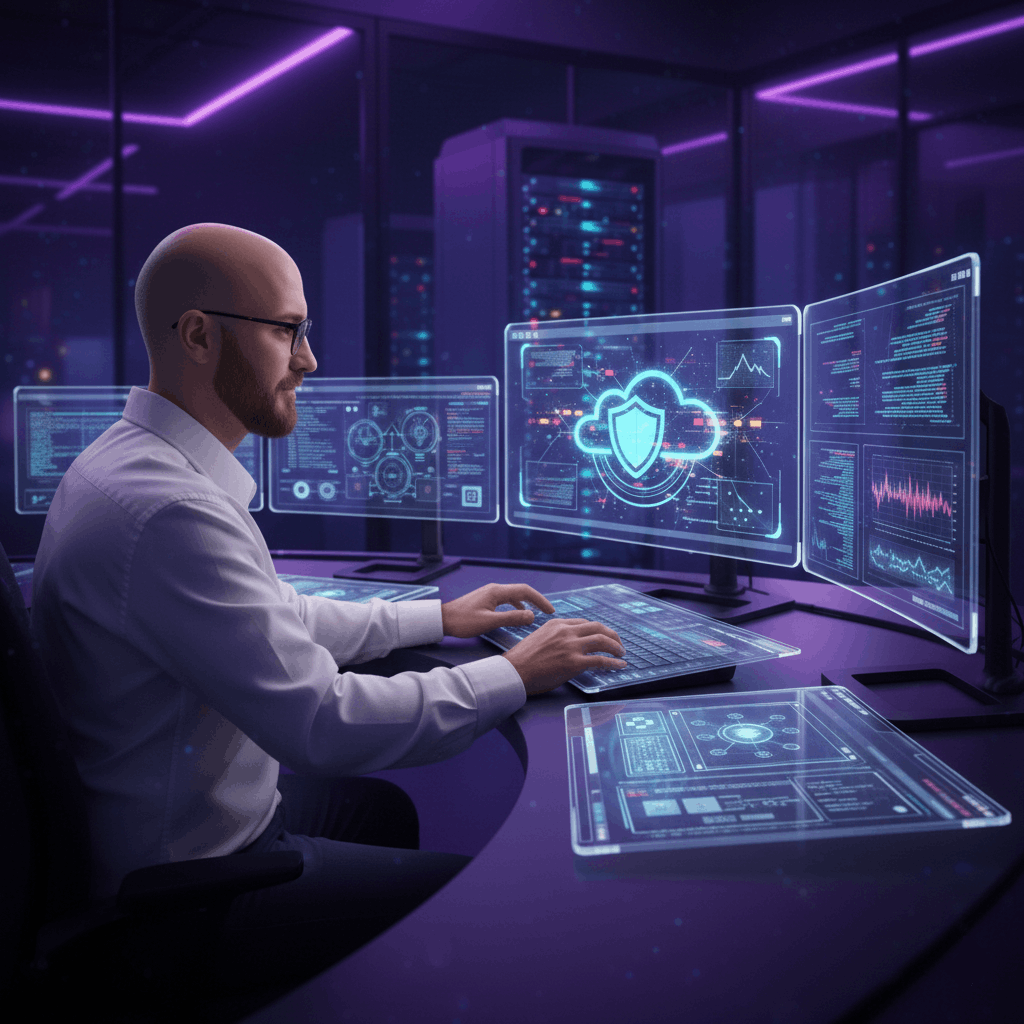
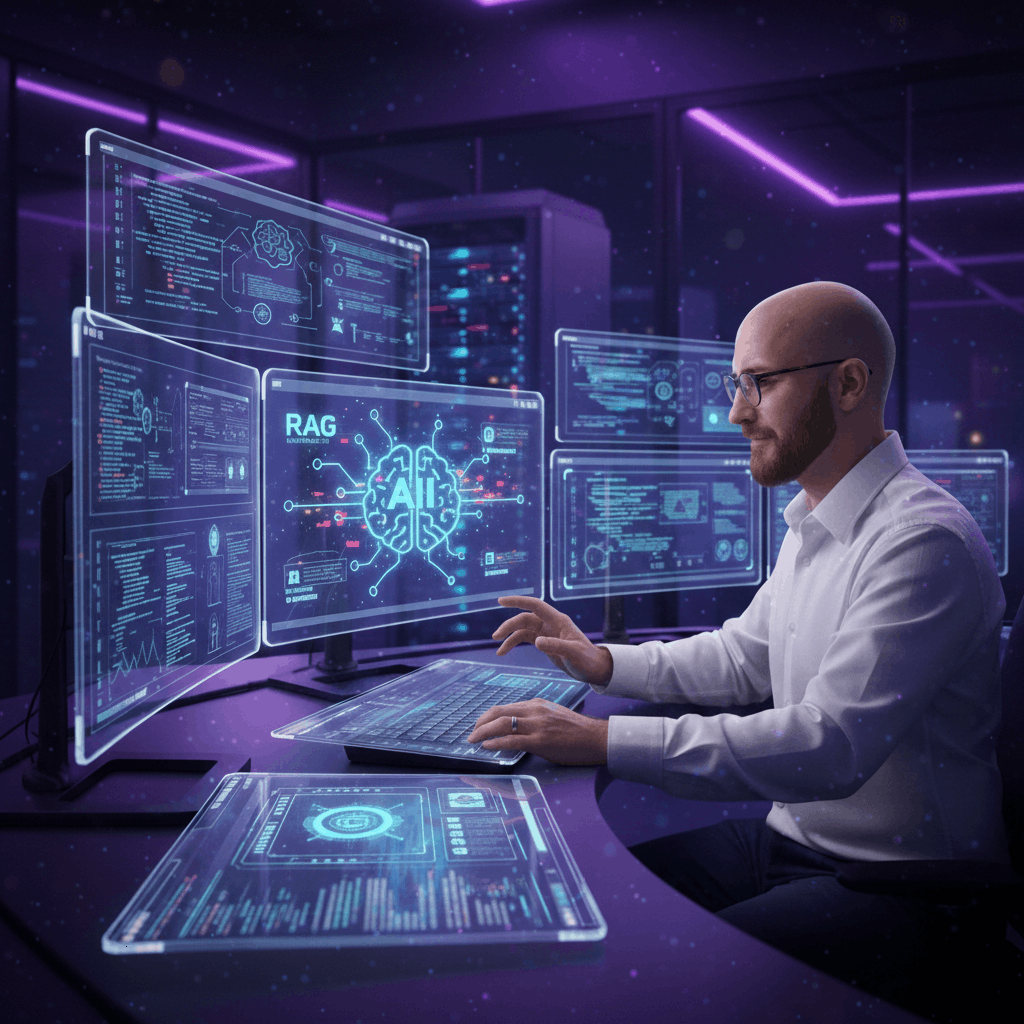
Juai replacement

diff --git a/index.html b/index.html
@@ -44,17 +44,15 @@
         <!-- Home Section -->
         <section id="home" class="section">
             <div class="hero">
-                <img src="images/cloudju_glow_trans_500.png" alt="Andrew with Cloud Technology"
-                    class="hero-profile-image">
-                <h2 class="hero-title">Engineering resilient, intelligent systems</h2>
-                <p class="hero-subtitle">Cloud • Security • AI/ML</p>
-
                 <!-- Hero Images -->
                 <div class="hero-images">
                     <img src="images/jusec.png" alt="Security" class="hero-image hero-image-left">
                     <img src="images/jucloud.png" alt="Cloud" class="hero-image hero-image-center">
                     <img src="images/juai.png" alt="AI/ML" class="hero-image hero-image-right">
                 </div>
+                <h2 class="hero-title">Engineering resilient, intelligent systems</h2>
+
+
             </div>
         </section>
 
